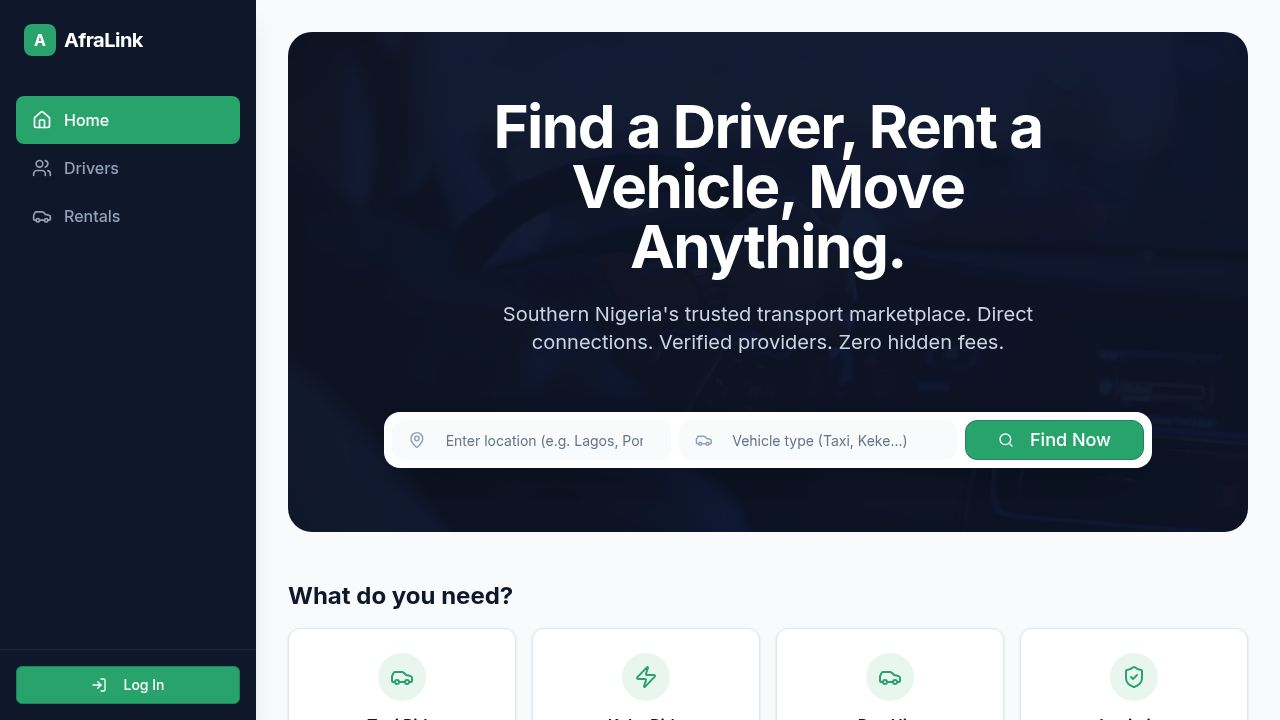
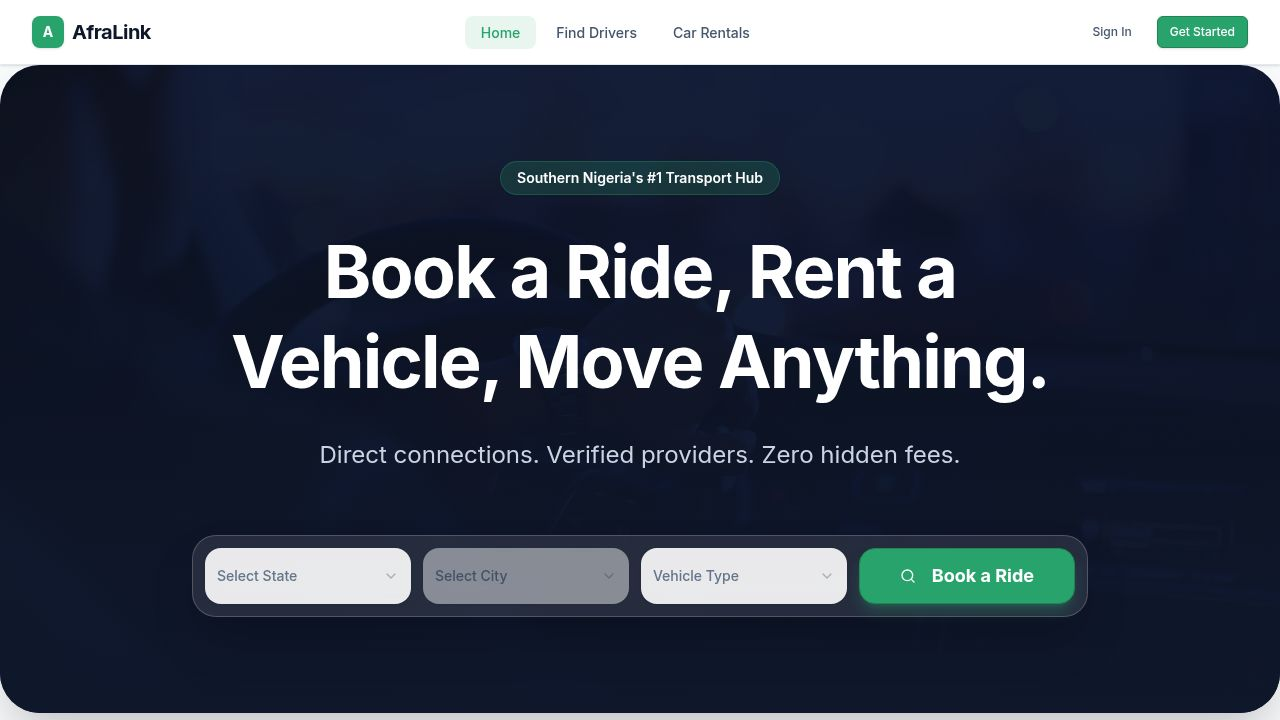
Update database configuration to use Supabase credentials
Update drizzle.config.ts and index.ts to prioritize SUPABASE_DATABASE_URL for database connections.

Replit-Commit-Author: Agent
Replit-Commit-Session-Id: 17976146-8f1e-47b3-b17c-5261ddb58538
Replit-Commit-Checkpoint-Type: full_checkpoint
Replit-Commit-Event-Id: 24495407-f389-483d-86db-c6c8d5ca55af
Replit-Commit-Screenshot-Url: https://storage.googleapis.com/screenshot-production-us-central1/0b15a15e-bad4-47d4-863c-a1177199f913/17976146-8f1e-47b3-b17c-5261ddb58538/KEZwStr
Replit-Helium-Checkpoint-Created: true

diff --git a/lib/db/drizzle.config.ts b/lib/db/drizzle.config.ts
@@ -1,14 +1,14 @@
 import { defineConfig } from "drizzle-kit";
 import path from "path";
 
-if (!process.env.DATABASE_URL) {
+const url = process.env.SUPABASE_DATABASE_URL || process.env.DATABASE_URL;
+
+if (!url) {
   throw new Error("DATABASE_URL, ensure the database is provisioned");
 }
 
 export default defineConfig({
   schema: path.join(__dirname, "./src/schema/index.ts"),
   dialect: "postgresql",
-  dbCredentials: {
-    url: process.env.DATABASE_URL,
-  },
+  dbCredentials: { url },
 });

diff --git a/lib/db/src/index.ts b/lib/db/src/index.ts
@@ -4,13 +4,15 @@ import * as schema from "./schema";
 
 const { Pool } = pg;
 
-if (!process.env.DATABASE_URL) {
+const connectionString = process.env.SUPABASE_DATABASE_URL || process.env.DATABASE_URL;
+
+if (!connectionString) {
   throw new Error(
     "DATABASE_URL must be set. Did you forget to provision a database?",
   );
 }
 
-export const pool = new Pool({ connectionString: process.env.DATABASE_URL });
+export const pool = new Pool({ connectionString });
 export const db = drizzle(pool, { schema });
 
 export * from "./schema";